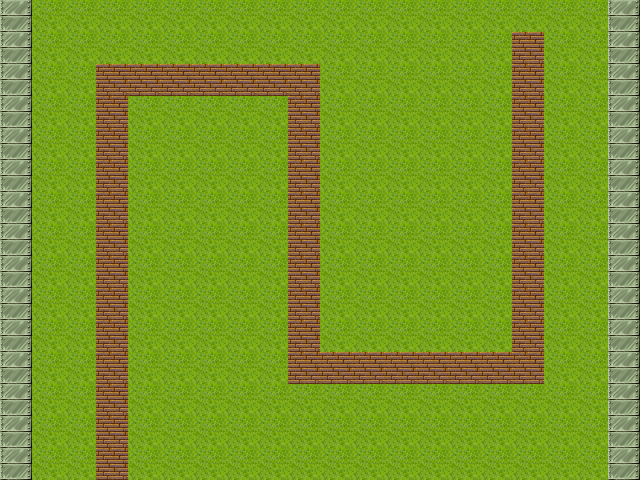
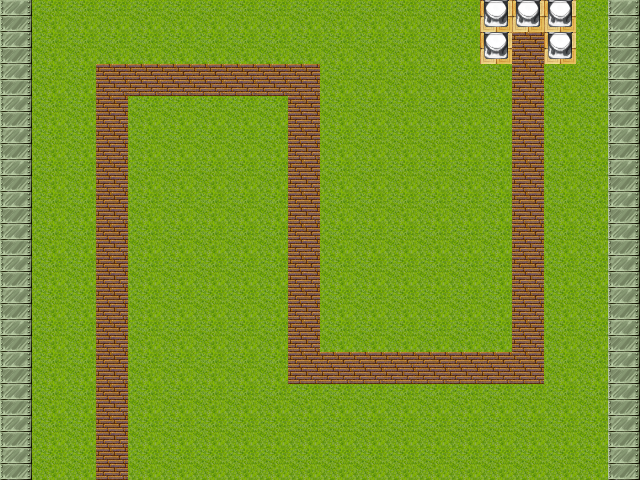
敵人工廠

Changed region(s): [[0.75, 0.0, 0.9062, 0.1562]]

diff --git a/main.js b/main.js
@@ -1,3 +1,5 @@
+var clock =0
+
 
 
 var FPS = 70;
@@ -7,18 +9,26 @@ var bgim = document.createElement("img");
 var towerImg = document.createElement("img");
 
 bgImg.src = "images/kk.png";
-eImg.src = "images/jason.gif";
+eImg.src = "images/jason.gif"
 bgim.src = "images/tower-btn.png";
 towerImg.src = "images/tower.png";
 
 var canvas = document.getElementById("gamecanvas");
 
 var ctx = canvas.getContext("2d");
-
 function draw() {
- enemy.imove()
+	clock++;
+	if ((clock%80)==0) {
+		var newEnemy = new Enemy();
+		enemies.push(newEnemy)
+
+	}
+		
 	ctx.drawImage(bgImg,0,0);
-	ctx.drawImage(eImg,enemy.x,enemy.y);
+	for (var i = 0; i < enemies.length; i++) {
+		enemies[i].imove();
+		ctx.drawImage(eImg,enemies[i].x,enemies[i].y);
+	}
 	ctx.drawImage(bgim,640-64,480-64,64,64);
 	if (build == true) {
 		ctx.drawImage(towerImg,move.x,move.y);
@@ -32,34 +42,36 @@ function draw() {
 
 setInterval( draw, 1000/FPS)
 
-var enemypath =[
-	{x: 96,y: 64 };
-	{x: 288,y: 64 };
-	{x: 288,y: 352 };
-	{x: 512,y: 352 };
+var enemypath = [
+	{x: 96,y: 64 },
+	{x: 288,y: 64 },
+	{x: 288,y: 352 },
+	{x: 512,y: 352 },
+	{x: 512,y: 32 }
 ];
 
 
 
-var enemy={
-	x: 100,
-	y: 450,
-	speedX:0,
-	speedY: -64,
-	pathDes : 0,
-	imove: function(){
- if (isCollided(enemypath[this.pathDes].x,
+function Enemy(){
+	this.x = 96,
+	this.y = 448,
+	this.speedX = 0,
+	this.speedY = -64,
+	this.pathDes = 0,
+	this.imove = function(){
+ 		if (isCollided(enemypath[this.pathDes].x,
 		 		enemypath[this.pathDes].y,
 		  		this.x,
 		   		this.y,
-		    	this.64/FPS,
-		 		this.64/FPS)) {
+				64/FPS,
+		 		64/FPS)) {
 
- 		this.x = enemypath[this.pathDes].x;
- 		this.y = enemypath[this.pathDes].y;
- 		this.pathDes++;
+ 			this.x = enemypath[this.pathDes].x;
+ 			this.y = enemypath[this.pathDes].y;
 
- 					if (this.x < enemypath[this.pathDes].x) {
+ 			this.pathDes++;
+
+ 			if (this.x < enemypath[this.pathDes].x) {
  						this.speedX = 64
  						this.speedY = 0
 			} else if (this.x > enemypath[this.pathDes].x){
@@ -73,17 +85,17 @@ var enemy={
  						this.speedY = -64
 
 			}
+		}else{
 
-			this.x = this.x + this.speedX/FPS;
-			this.y = this.y + this.speedY/FPS;
-
-
-
+			this.x += this.speedX/FPS;
+			this.y += this.speedY/FPS;
 
 		}
 		
 	}
 }
+
+var enemies = [] 
 
 $("#gamecanvas").on("mousemove",mouse)
 
